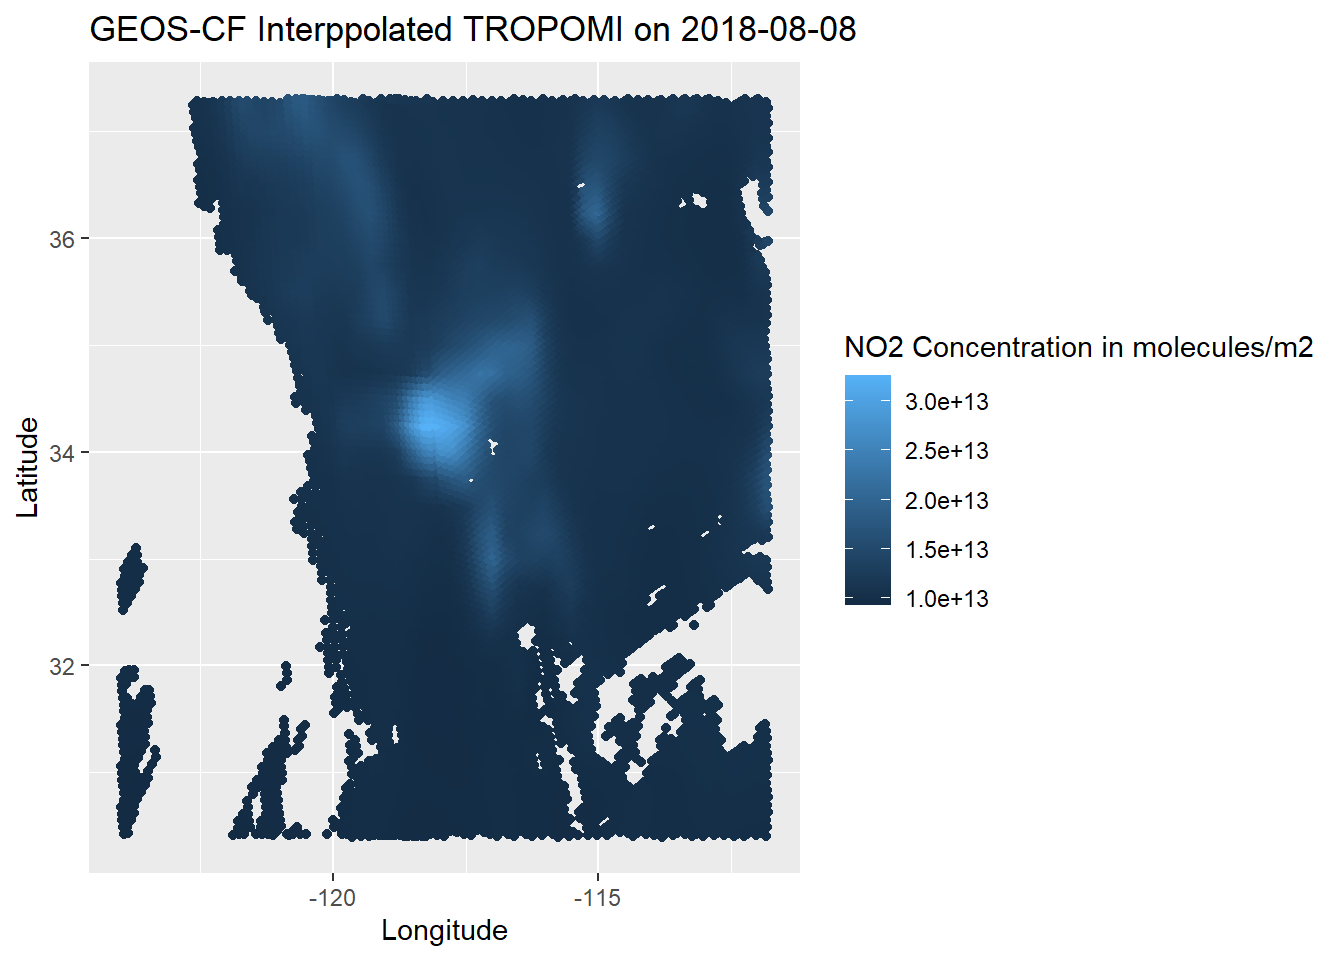
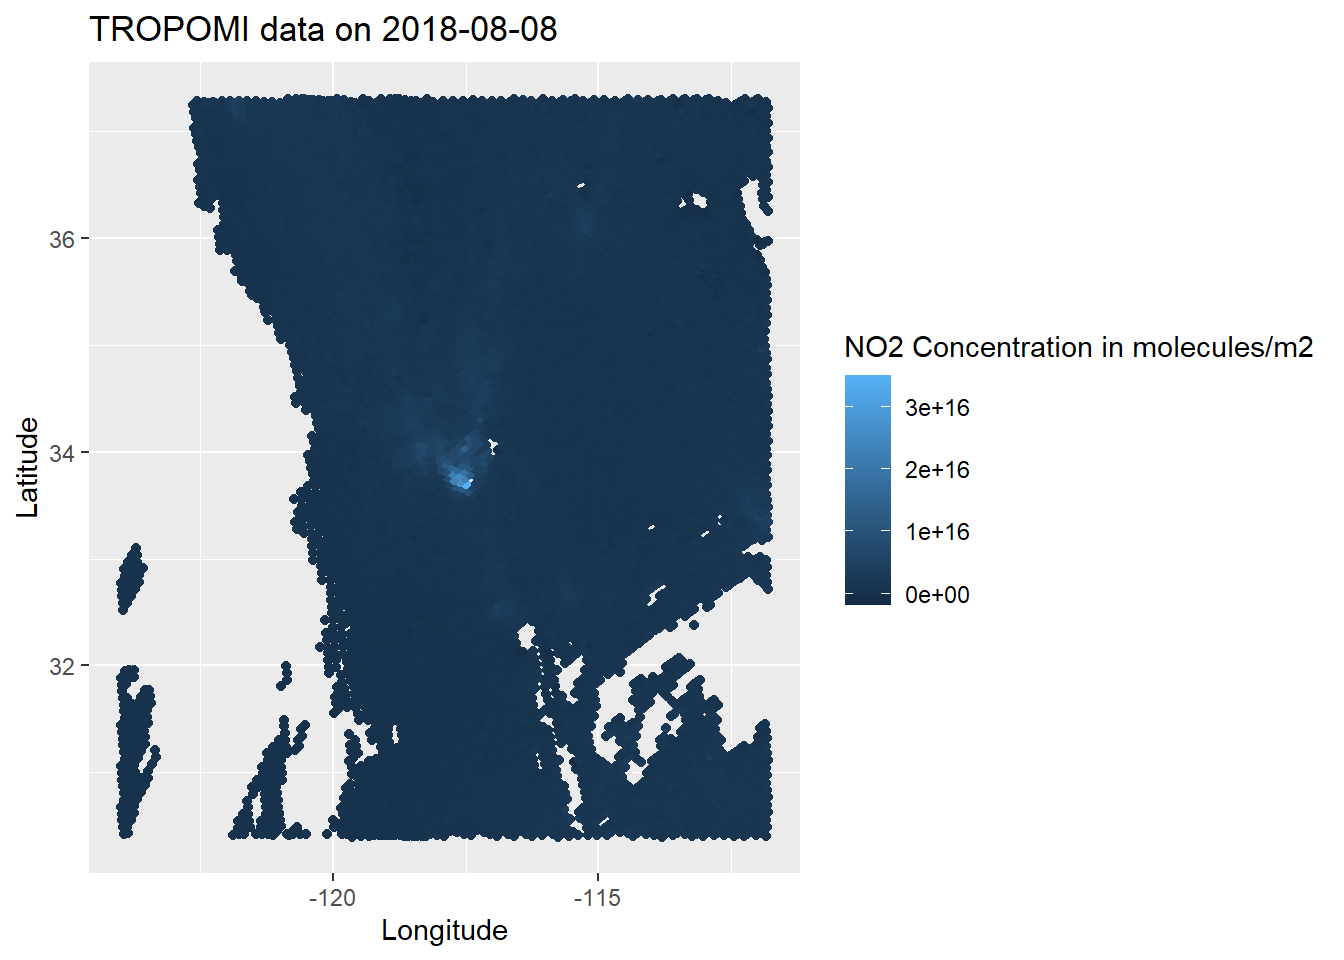
results done

diff --git a/docs/Proj.html b/docs/Proj.html
@@ -414,13 +414,10 @@ div.tocify {
 </div>
 <div id="data-handling" class="section level1">
 <h1>Data Handling</h1>
-<p>Data for TROPOMI NO~2 is represented in the from of maps with longitudes varying on x-axis and latitudes varying on y-axis. GEOS-CF model data is also represented in the same way.</p>
 <p>The following packages were used in the project:</p>
 <pre class="r"><code>library(pracma)</code></pre>
 <pre class="r"><code>library(R.matlab)
-library(tidyverse)
-library(leaflet)
-library(kableExtra)  </code></pre>
+library(tidyverse)</code></pre>
 <pre class="r"><code>library(dplyr)
 library(R.matlab)
 library(lubridate)
@@ -490,6 +487,7 @@ filter_2 &lt;- filter(filter_1, &quot;QA_value&quot; &gt; 0.5)
 Matlab2Rdate &lt;- function(val) as.Date(val - 1, origin = &#39;0000-01-01&#39;)
 change_dates &lt;- Matlab2Rdate(filter_2[[&quot;Dates&quot;]])
 modified_date &lt;- ymd(change_dates)</code></pre>
+<p>The above steps are similarly implemented to November data as well, as the data is read and converted into readable form, the next step is sorting the data based on fire and non-fire dates.</p>
 </div>
 <div id="november-1" class="section level4">
 <h4>November</h4>
@@ -515,7 +513,6 @@ filter_2_nov &lt;- filter(filter_1_nov, &quot;QA_value_nov&quot; &gt; 0.5)
 Matlab2Rdate_nov &lt;- function(val) as.Date(val - 1, origin = &#39;0000-01-01&#39;)
 change_dates_nov &lt;- Matlab2Rdate_nov(filter_2_nov[[&quot;Dates_nov&quot;]])
 modified_date_nov &lt;- ymd(change_dates_nov)</code></pre>
-<p>Now since the data is read and converted into readable form, the next step is sorting the data based on fire and non-fire dates.</p>
 </div>
 <div id="sorting-data-based-on-fire-dates" class="section level4">
 <h4>Sorting data based on fire dates</h4>
@@ -559,7 +556,7 @@ Lat_filter &lt;- Latitude[Latitude &gt; 30.4 &amp; Latitude &lt; 37.3]
 Lon_filter &lt;- Longitude[Longitude &gt; -124 &amp; Longitude &lt; -111.8]
 Lat_lon_grid &lt;- meshgrid(Longitude, Latitude)
 plot_data_aug_8 &lt;- data.frame(&quot;y_lat&quot; = c(Lat_lon_grid[[&quot;Y&quot;]]), &quot;x_lon&quot; = c(Lat_lon_grid[[&quot;X&quot;]]), &quot;z_Con&quot; = c(CONC_geos))</code></pre>
-<p>Since TROPOMI data is from the NASA-TROPOMI satellite, the data is discontinuous since satellite is not effective in capturing data at all locations. And as GEOS-CF is a model, it is continuous and has data values at all locations. As both the data sets are differing in terms of locations, it wouldn’t be appropriate to compare them. THerefore, it would be appropriate when the GEOS-CF data are interpolated at TROPOMI locations. The code shown below does the following.</p>
+<p>Since TROPOMI data is obtained from the NASA-TROPOMI satellite, since satellite is not effective in capturing data at all locations. And as GEOS-CF is a model, it is continuous and has data values at all locations. As both the data sets are differing in terms of locations, it wouldn’t be appropriate to compare them. Therefore, it would be appropriate when the GEOS-CF data are interpolated at TROPOMI locations. The code shown below does the following.</p>
 <div id="interpolating-geos-cf-data-at-tropomi-locations" class="section level5">
 <h5>Interpolating GEOS-CF data at TROPOMI locations</h5>
 <pre class="r"><code>y1 &lt;- Latitude 
@@ -570,6 +567,7 @@ y0 &lt;- fire_date_plot_aug_8[&#39;Latitude&#39;]
 x2 &lt;- as.numeric(unlist(x0))
 y2&lt;- as.numeric(unlist(y0))
 latlon_aug_8.bil &lt;- bilinear(x1,y1,z1,x2,y2)</code></pre>
+<p>The above steps could be similarly repeated for non-fire dates in the month of August, and fire and non-fire dates in November month as well.</p>
 </div>
 </div>
 </div>
@@ -821,12 +819,12 @@ trop_plot_aug_25 &lt;- ggplot(fire_date_plot_aug_25, aes(x=Longitude,y=Latitude,
 </div>
 <div id="tropomi-plots-for-fire-dates" class="section level4">
 <h4>Tropomi plots for fire dates</h4>
-<pre class="r"><code>trop_plot_aug_8 &lt;- ggplot(plot_data_interp_aug_8,aes(x_lon_interp, y = y_lat_interp, color = z_Con_interp))+
+<pre class="r"><code>trop_plot_aug_8 &lt;- ggplot(fire_date_plot_aug_8,aes(x=Longitude,y=Latitude, color= NO2_Concentration))+
   geom_point()+
   xlab(&quot;Longitude&quot;)+
   ylab(&quot;Latitude&quot;)+
   labs(color=&#39;NO2 Concentration in molecules/m2&#39;)+
-  ggtitle(&quot;GEOS-CF Interppolated TROPOMI on 2018-08-08&quot;)</code></pre>
+  ggtitle(&quot;TROPOMI data on 2018-08-08&quot;)</code></pre>
 </div>
 </div>
 <div id="november-4" class="section level3">
@@ -1024,30 +1022,20 @@ linearMod_aug_8 &lt;- lm(NO2_Concentration ~z_Con_interp, data=lm_data_frame_aug
 <pre class="r"><code>xval_aug_18 &lt;- lm_data_frame_aug_18[&#39;NO2_Concentration&#39;]
 yval_aug_18 &lt;- lm_data_frame_aug_18[&#39;z_Con_interp_nov&#39;]
 x2_aug_18 &lt;- data.frame(yval_aug_18,xval_aug_18)
-plot(x2_aug_18,ylim=c(0,5e+15), main = &quot;August 18&quot;,xlab = &#39;GEOS- Interpolated at Tropomi&#39;, ylab =&#39;Tropomi&#39;)
-abline(lm(NO2_Concentration ~ z_Con_interp_nov, data = lm_data_frame_aug_18), col = &quot;red&quot;)</code></pre>
-<p><img src="Proj_files/figure-html/unnamed-chunk-51-1.png" width="672" /></p>
-<pre class="r"><code>xval_aug_24 &lt;- lm_data_frame_aug_24[&#39;NO2_Concentration&#39;]
+
+xval_aug_24 &lt;- lm_data_frame_aug_24[&#39;NO2_Concentration&#39;]
 yval_aug_24 &lt;- lm_data_frame_aug_24[&#39;z_Con_interp_nov&#39;]
 x2_aug_24 &lt;- data.frame(yval_aug_24,xval_aug_24)
-plot(x2_aug_24,ylim=c(0,5e+15), main = &quot;August 24&quot;,xlab = &#39;GEOS- Interpolated at Tropomi&#39;, ylab =&#39;Tropomi&#39;)
-abline(lm(NO2_Concentration ~ z_Con_interp_nov, data = lm_data_frame_aug_24), col = &quot;red&quot;)</code></pre>
-<p><img src="Proj_files/figure-html/unnamed-chunk-51-2.png" width="672" /></p>
-<pre class="r"><code>xval_aug_25 &lt;- lm_data_frame_aug_25[&#39;NO2_Concentration&#39;]
+
+xval_aug_25 &lt;- lm_data_frame_aug_25[&#39;NO2_Concentration&#39;]
 yval_aug_25 &lt;- lm_data_frame_aug_25[&#39;z_Con_interp_nov&#39;]
-x2_aug_25 &lt;- data.frame(yval_aug_25,xval_aug_25)
-plot(x2_aug_25,ylim=c(0,5e+15), main = &quot;August 25&quot;,xlab = &#39;GEOS- Interpolated at Tropomi&#39;, ylab =&#39;Tropomi&#39;)
-abline(lm(NO2_Concentration ~ z_Con_interp_nov, data = lm_data_frame_aug_25), col = &quot;red&quot;)</code></pre>
-<p><img src="Proj_files/figure-html/unnamed-chunk-51-3.png" width="672" /></p>
+x2_aug_25 &lt;- data.frame(yval_aug_25,xval_aug_25)</code></pre>
 </div>
 <div id="fire-dates-1" class="section level4">
 <h4>Fire dates</h4>
 <pre class="r"><code>xval &lt;- lm_data_frame_aug_8[&#39;NO2_Concentration&#39;]
 yval &lt;- lm_data_frame_aug_8[&#39;z_Con_interp&#39;]
-x2 &lt;- data.frame(yval,xval)
-plot(x2,ylim=c(0,1.0e+16), main = &quot;August 8&quot;,xlab = &#39;GEOS- Interpolated at Tropomi&#39;, ylab =&#39;Tropomi&#39;)
-abline(lm(NO2_Concentration ~ z_Con_interp, data = lm_data_frame_aug_8), col = &quot;red&quot;)</code></pre>
-<p><img src="Proj_files/figure-html/unnamed-chunk-52-1.png" width="672" /></p>
+x2 &lt;- data.frame(yval,xval)</code></pre>
 </div>
 </div>
 <div id="november-6" class="section level3">
@@ -1073,27 +1061,20 @@ linearMod_nov_11 &lt;- lm(NO2_Concentration_nov ~z_Con_interp_nov, data=lm_data_
 <pre class="r"><code>xval_nov_22 &lt;- lm_data_frame_nov_22[&#39;NO2_Concentration_nov&#39;]
 yval_nov_22 &lt;- lm_data_frame_nov_22[&#39;z_Con_interp_nov&#39;]
 x2_nov_22 &lt;- data.frame(yval_nov_22,xval_nov_22)
-plot(x2_nov_22,ylim=c(0,0.5e+16), main = &quot;November 22&quot;,xlab = &#39;GEOS- Interpolated at Tropomi&#39;, ylab =&#39;Tropomi&#39;)
-abline(lm(NO2_Concentration_nov ~ z_Con_interp_nov, data = lm_data_frame_nov_22), col = &quot;red&quot;)</code></pre>
-<p><img src="Proj_files/figure-html/unnamed-chunk-55-1.png" width="672" /></p>
-<pre class="r"><code>xval_nov_23 &lt;- lm_data_frame_nov_23[&#39;NO2_Concentration_nov&#39;]
+
+xval_nov_23 &lt;- lm_data_frame_nov_23[&#39;NO2_Concentration_nov&#39;]
 yval_nov_23 &lt;- lm_data_frame_nov_23[&#39;z_Con_interp_nov&#39;]
 x2_nov_23 &lt;- data.frame(yval_nov_23,xval_nov_23)
-plot(x2_nov_23,ylim=c(0,1e+16), main = &quot;November 23&quot;,xlab = &#39;GEOS- Interpolated at Tropomi&#39;, ylab =&#39;Tropomi&#39;)
-abline(lm(NO2_Concentration_nov ~ z_Con_interp_nov, data = lm_data_frame_nov_23), col = &quot;red&quot;)</code></pre>
-<p><img src="Proj_files/figure-html/unnamed-chunk-55-2.png" width="672" /></p>
-<pre class="r"><code>xval_nov_28 &lt;- lm_data_frame_nov_28[&#39;NO2_Concentration_nov&#39;]
+
+xval_nov_28 &lt;- lm_data_frame_nov_28[&#39;NO2_Concentration_nov&#39;]
 yval_nov_28 &lt;- lm_data_frame_nov_28[&#39;z_Con_interp_nov&#39;]
-x2_nov_28 &lt;- data.frame(yval_nov_28,xval_nov_28)
-plot(x2_nov_28,ylim=c(0,1e+16), main = &quot;November 28&quot;,xlab = &#39;GEOS- Interpolated at Tropomi&#39;, ylab =&#39;Tropomi&#39;)
-abline(lm(NO2_Concentration_nov ~ z_Con_interp_nov, data = lm_data_frame_nov_28), col = &quot;red&quot;)</code></pre>
-<p><img src="Proj_files/figure-html/unnamed-chunk-55-3.png" width="672" /> #### Fire dates</p>
+x2_nov_28 &lt;- data.frame(yval_nov_28,xval_nov_28)</code></pre>
+</div>
+<div id="fire-dates-3" class="section level4">
+<h4>Fire dates</h4>
 <pre class="r"><code>xval &lt;- lm_data_frame_nov_11[&#39;NO2_Concentration_nov&#39;]
 yval &lt;- lm_data_frame_nov_11[&#39;z_Con_interp_nov&#39;]
-x2_nov_11 &lt;- data.frame(yval,xval)
-plot(x2_nov_11,ylim=c(0,10.0e+16), main = &quot;November 11&quot;,xlab = &#39;GEOS- Interpolated at Tropomi&#39;, ylab =&#39;Tropomi&#39;)
-abline(lm(NO2_Concentration_nov ~ z_Con_interp_nov, data = lm_data_frame_nov_11), col = &quot;red&quot;)</code></pre>
-<p><img src="Proj_files/figure-html/unnamed-chunk-56-1.png" width="672" /></p>
+x2_nov_11 &lt;- data.frame(yval,xval)</code></pre>
 <p>Also, error analysis would be conducted for the above data sets. TROPOMI values are predicted based on the model and bias is calculated between predicted values and original values, plots are constructed between the error (e) and predicted values, these plots help us in understanding the trend in errors.</p>
 </div>
 </div>
@@ -1116,7 +1097,7 @@ new.values_aug_25 &lt;- data.frame(values = c(lm_data_frame_aug_25[&#39;z_Con_in
 predicted_values_tropomi_aug_25 &lt;- predict(linearMod_aug_25, newdata = new.values_aug_25)
 bias_1_aug_25 &lt;- mean(predicted_values_tropomi_aug_25- lm_data_frame_aug_25$NO2_Concentration)</code></pre>
 </div>
-<div id="fire-dates-3" class="section level4">
+<div id="fire-dates-4" class="section level4">
 <h4>Fire dates</h4>
 <pre class="r"><code>#predicting values based on linear model  
 new.values_aug_8 &lt;- data.frame(values = c(lm_data_frame_aug_8[&#39;z_Con_interp&#39;]))
@@ -1141,7 +1122,7 @@ new.values_nov_28 &lt;- data.frame(values = c(lm_data_frame_nov_28[&#39;z_Con_in
 predicted_values_tropomi_nov_28 &lt;- predict(linearMod_nov_28, newdata = new.values_nov_28)
 bias_1_nov_28 &lt;- mean(predicted_values_tropomi_nov_28- lm_data_frame_nov_28$NO2_Concentration_nov)</code></pre>
 </div>
-<div id="fire-dates-4" class="section level4">
+<div id="fire-dates-5" class="section level4">
 <h4>Fire dates</h4>
 <pre class="r"><code>new.values_nov_11 &lt;- data.frame(values = c(lm_data_frame_nov_11[&#39;z_Con_interp_nov&#39;]))
 predicted_values_tropomi_nov_11 &lt;- predict(linearMod_nov_11, newdata = new.values_nov_11)
@@ -1150,72 +1131,12 @@ bias_nov_11 &lt;- mean(bias_1_nov_11)  </code></pre>
 </div>
 </div>
 </div>
-<div id="plots-for-error-analysis" class="section level2">
-<h2>Plots for error analysis</h2>
-<div id="august-7" class="section level3">
-<h3>August</h3>
-<div id="non-fire-dates-6" class="section level4">
-<h4>Non-fire dates</h4>
-<pre class="r"><code>diff_aug_18 &lt;- predicted_values_tropomi_aug_18 - lm_data_frame_aug_18[&#39;NO2_Concentration&#39;]
-res_data_aug_18 &lt;- data.frame(predicted_values_tropomi_aug_18, diff_aug_18)
-plot(res_data_aug_18,ylim=c(-3e+15 ,3e+15), main = &quot;August 18&quot;,ylab = &#39;e (Predicted Tropomi - Actual Tropomi)&#39;, xlab =&#39;Predicted Tropomi&#39;)
-abline(h=c(0), col=c(&quot;blue&quot;))</code></pre>
-<p><img src="Proj_files/figure-html/unnamed-chunk-61-1.png" width="672" /></p>
-<pre class="r"><code>diff_aug_24 &lt;- predicted_values_tropomi_aug_24 - lm_data_frame_aug_24[&#39;NO2_Concentration&#39;]
-res_data_aug_24 &lt;- data.frame(predicted_values_tropomi_aug_24, diff_aug_24)
-plot(res_data_aug_24,ylim=c(-3e+15 ,3e+15),main = &quot;August 24&quot;, ylab = &#39;e (Predicted Tropomi - Actual Tropomi)&#39;, xlab =&#39;Predicted Tropomi&#39;)
-abline(h=c(0), col=c(&quot;blue&quot;))</code></pre>
-<p><img src="Proj_files/figure-html/unnamed-chunk-61-2.png" width="672" /></p>
-<pre class="r"><code>diff_aug_25 &lt;- predicted_values_tropomi_aug_25 - lm_data_frame_aug_25[&#39;NO2_Concentration&#39;]
-res_data_aug_25 &lt;- data.frame(predicted_values_tropomi_aug_25, diff_aug_25)
-plot(res_data_aug_25,ylim=c(-1.5e+15 ,2e+15), main = &quot;August 25&quot;,ylab = &#39;e (Predicted Tropomi - Actual Tropomi)&#39;, xlab =&#39;Predicted Tropomi&#39;)
-abline(h=c(0), col=c(&quot;blue&quot;))</code></pre>
-<p><img src="Proj_files/figure-html/unnamed-chunk-61-3.png" width="672" /></p>
-</div>
-<div id="fire-dates-5" class="section level4">
-<h4>Fire dates</h4>
-<pre class="r"><code>diff_aug_8 &lt;- predicted_values_tropomi_aug_8 - fire_date_plot_aug_8[&#39;NO2_Concentration&#39;]
-res_data_aug_8 &lt;- data.frame(predicted_values_tropomi_aug_8, bias_1_aug_8)
-plot(res_data_aug_8,ylim=c(-3e+15,3e+15))
-abline(h=c(0), col=c(&quot;blue&quot;))</code></pre>
-<p><img src="Proj_files/figure-html/unnamed-chunk-62-1.png" width="672" /></p>
-</div>
-</div>
-<div id="november-8" class="section level3">
-<h3>November</h3>
-<div id="non-fire-dates-7" class="section level4">
-<h4>Non-fire dates</h4>
-<pre class="r"><code>diff_nov_22 &lt;- predicted_values_tropomi_nov_22 - lm_data_frame_nov_22[&#39;NO2_Concentration_nov&#39;]
-res_data_nov_22 &lt;- data.frame(predicted_values_tropomi_nov_22, diff_nov_22)
-plot(res_data_nov_22,main = &quot;November 22&quot;,ylim=c(-5e+15 ,3e+15), ylab = &#39;e (Predicted Tropomi - Actual Tropomi)&#39;, xlab =&#39;Predicted Tropomi&#39;)
-abline(h=c(0), col=c(&quot;blue&quot;))</code></pre>
-<p><img src="Proj_files/figure-html/unnamed-chunk-63-1.png" width="672" /></p>
-<pre class="r"><code>diff_nov_23 &lt;- predicted_values_tropomi_nov_23 - lm_data_frame_nov_23[&#39;NO2_Concentration_nov&#39;]
-res_data_nov_23 &lt;- data.frame(predicted_values_tropomi_nov_23, diff_nov_23)
-plot(res_data_nov_23,main = &quot;November 23&quot;,ylim=c(-5e+15 ,3e+15), ylab = &#39;e (Predicted Tropomi - Actual Tropomi)&#39;, xlab =&#39;Predicted Tropomi&#39;)
-abline(h=c(0), col=c(&quot;blue&quot;))</code></pre>
-<p><img src="Proj_files/figure-html/unnamed-chunk-63-2.png" width="672" /></p>
-<pre class="r"><code>diff_nov_28 &lt;- predicted_values_tropomi_nov_28 - lm_data_frame_nov_28[&#39;NO2_Concentration_nov&#39;]
-res_data_nov_28 &lt;- data.frame(predicted_values_tropomi_nov_28, diff_nov_28)
-plot(res_data_nov_28,main = &quot;November 28&quot;,ylim=c(-1.5e+16 ,5e+15), ylab = &#39;e (Predicted Tropomi - Actual Tropomi)&#39;, xlab =&#39;Predicted Tropomi&#39;)
-abline(h=c(0), col=c(&quot;blue&quot;))</code></pre>
-<p><img src="Proj_files/figure-html/unnamed-chunk-63-3.png" width="672" /></p>
-</div>
-<div id="fire-dates-6" class="section level4">
-<h4>Fire dates</h4>
-<pre class="r"><code>diff_nov_11 &lt;- predicted_values_tropomi_nov_11 - fire_date_plot_nov_11[&#39;NO2_Concentration_nov&#39;]
-res_data_nov_11 &lt;- data.frame(predicted_values_tropomi_nov_11, bias_1_nov_11)
-plot(res_data_nov_11,ylim=c(-5e+16,4e+15))
-abline(h=c(0), col=c(&quot;blue&quot;))</code></pre>
-<p><img src="Proj_files/figure-html/unnamed-chunk-64-1.png" width="672" /></p>
-</div>
-</div>
-</div>
 </div>
 <div id="results-and-discussions" class="section level1">
 <h1>Results and Discussions</h1>
 <div id="regression-bias-and-error-analysis" class="section level2">
 <h2>Regression, Bias and Error Analysis</h2>
+<p><img src="Proj_files/figure-html/chunk-name-1.png" width="672" /></p>
 <pre class="r"><code>r2_plot </code></pre>
 <p><img src="Proj_files/figure-html/unnamed-chunk-65-1.png" width="672" /></p>
 <pre class="r"><code>geos_conc_plot</code></pre>
@@ -1224,9 +1145,12 @@ abline(h=c(0), col=c(&quot;blue&quot;))</code></pre>
 <p><img src="Proj_files/figure-html/unnamed-chunk-65-3.png" width="672" /></p>
 <pre class="r"><code>bias_plot </code></pre>
 <p><img src="Proj_files/figure-html/unnamed-chunk-65-4.png" width="672" /></p>
+<pre class="r"><code>reg_plot</code></pre>
+<pre><code>## NULL</code></pre>
 <p>The above shown tropomi and geos interpolated tropomi plots show that concentrations of NO<sub>2</sub> were high on days which had significant amount of fire counts as compared to the days which didn’t have any fire counts. This leads to a conclusion that concentration of NO<sub>2</sub> is directly correlated with fire counts.</p>
 <p>r2 here represents the correlation coefficient between TROPOMI data and predicted TROPOMI data, i.e., which is based on the regression models. When we observe the r2 plot we can see that the correlation coefficient is high for the days which doesn’t have any fire counts as compared to the days which have significant amount of fire counts, this shows that linear regression model fits good for days which have a low mean NO<sub>2</sub> concentration than for days that have high mean NO<sub>2</sub> concentration. We can also say that linear regression fits best for the days which don’t have any fire counts as compared to the days which have fire counts.</p>
 <p>From the bias plot we can also say that TROPOMI and GEOS-Interpolated TROPOMI NO<sub>2</sub> data correlated to a grater extent for days which didn’t have fire counts as compared with the days that had fire counts.</p>
+<p>The plots between residuals and predicted values can be analyzed for heterostedaticity, whenever their is inconsistency in predicting the values according to the model, i.e., whenever the model serves to be accurate for lower values and fails for higher values, it would be accounted for a case of heterostedaticity. In this case the model could not longer be considered as accurate.</p>
 <p>The above statements could lead us to a conclusion that satellite and TROPOMI data correlated well for non-fire days as compared to the days which had fire counts.</p>
 </div>
 </div>
